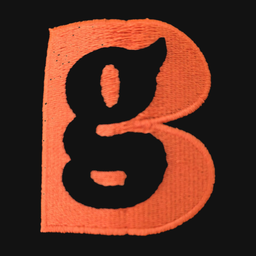
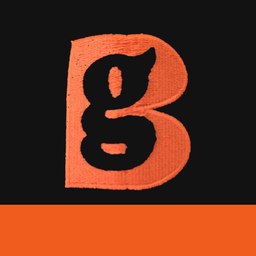
페이지 안 팀 마크도 모자 2색(본체+챙)으로
Claude-Session: https://claude.ai/code/session_01MiU2bxi9p7TMxbirvSDMuK

diff --git a/glo.html b/glo.html
@@ -156,7 +156,7 @@ body.self .olg{border-radius:8px}
 </main>
 <script>
 {
-const D={"ext": {"박민수(13)": ["29", "19", "12", "10", "3", "8", "2", "3", "2.67", "0", "0", "0", "0", "3", "0"], "김종원(7)": ["37", "28", "17", "11", "19", "9", "0", "3", "3.00", "0", "0", "0", "0", "5", "0"], "박일우(11)": ["32", "21", "9", "13", "10", "8", "3", "3", "2.67", "0", "0", "0", "0", "2", "0"], "박정일(5)": ["25", "14", "6", "5", "8", "5", "4", "2", "2.50", "0", "2", "0", "0", "0", "0"], "강용진(8)": ["22", "18", "7", "2", "11", "2", "1", "4", "0.50", "0", "1", "0", "0", "2", "0"], "박종원(0)": ["23", "16", "6", "5", "3", "6", "1", "9", "0.67", "0", "0", "0", "1", "1", "0"], "이장욱(10)": ["35", "27", "6", "7", "7", "7", "0", "8", "0.88", "0", "1", "0", "0", "1", "0"], "김태환(30)": ["31", "26", "5", "5", "4", "5", "0", "8", "0.63", "0", "0", "0", "0", "0", "0"], "이준환(26)": ["15", "11", "4", "4", "3", "4", "0", "4", "1.00", "0", "0", "0", "0", "1", "0"], "이상운(35)": ["4", "3", "1", "1", "0", "1", "0", "2", "0.50", "0", "0", "0", "0", "0", "0"], "조의제(44)": ["14", "7", "2", "5", "3", "5", "2", "2", "2.50", "0", "0", "0", "0", "0", "0"], "차현민(14)": ["11", "8", "2", "4", "2", "0", "3", "4", "0.00", "0", "0", "0", "0", "0", "0"], "김태수(77)": ["17", "13", "3", "6", "3", "4", "0", "3", "1.33", "0", "0", "0", "0", "1", "0"], "박정군(18)": ["13", "9", "2", "0", "1", "3", "1", "1", "3.00", "0", "0", "0", "0", "0", "0"], "신동철(12)": ["11", "10", "2", "3", "2", "1", "0", "7", "0.14", "0", "0", "1", "0", "0", "0"], "안승현(25)": ["3", "2", "0", "1", "0", "0", "1", "1", "0.00", "0", "0", "0", "0", "0", "0"], "정도은(6)": ["3", "2", "0", "0", "0", "1", "0", "1", "1.00", "0", "0", "0", "0", "0", "0"]}, "pext": {"김태수(77)": ["4", "4", "0", "0", "176", "158", "609", "49", "19", "0", "1", "0"], "정도은(6)": ["2", "1", "1", "0", "68", "47", "277", "14", "5", "0", "0", "0"], "박민수(13)": ["0", "0", "0", "0", "14", "11", "49", "4", "4", "0", "0", "0"], "강용진(8)": ["0", "0", "0", "0", "5", "5", "16", "2", "2", "0", "0", "0"], "차현민(14)": ["0", "0", "0", "0", "8", "6", "28", "6", "5", "1", "0", "0"]}, "logo": "gmark.png", "title": "글로베어스 선수 기록", "mode": "pre", "inn": "", "opp": "글로베어스", "self": true, "sub": "2026 시즌 타자·투수 기록과 타구 분포 · 게임원 공식 기록 기준", "basis": "데이터: 게임원 글로베어스 2026 시즌 전체 기록 12경기 · 2026.11.27 수집", "orderLabel": "게임원 기록 순", "raw": "박민수(13)|우투우타|10|0.632|0.759|0.842|1.601|4|0|0|15|AFLcIIFDFLLZALU\n김종원(7)|우투우타|12|0.607|0.703|1.000|1.703|5|0|2|9|oAZZ5RZrDzArofzZFrEfDL\n박일우(11)|우투우타|11|0.429|0.625|0.619|1.244|4|0|0|10|cLEDDfzDFFDXZLA\n박정일(5)|좌투좌타|9|0.429|0.600|0.571|1.171|2|0|0|3|occcIrrFczrzt\n강용진(8)|우투우타|7|0.389|0.455|0.611|1.066|2|1|0|2|YotFrIIIwLLLX\n박종원(0)|우투우타|9|0.375|0.565|0.438|1.003|1|0|0|5|ZrfZFF\n이장욱(10)|우투우타|12|0.222|0.371|0.259|0.630|1|0|0|3|FFEFrXDIErLXIcF\n김태환(30)|우투우타|12|0.192|0.323|0.192|0.515|0|0|0|5|rXortrFDDXrAsr\n이준환(26)|우투우타|5|0.364|0.533|0.636|1.169|1|1|0|1|tEDzZDL\n이상운(35)|우투우타|2|0.333|0.500|0.333|0.833|0|0|0|0|A\n조의제(44)||6|0.286|0.643|0.286|0.929|0|0|0|1|FrAE\n차현민(14)|우투우타|4|0.250|0.455|0.375|0.830|1|0|0|4|ZrL\n김태수(77)|우투우타|6|0.231|0.412|0.231|0.643|0|0|0|1|IEZFDFD\n박정군(18)|좌투좌타|6|0.222|0.462|0.222|0.684|0|0|0|1|XDrrtXr\n신동철(12)||8|0.200|0.273|0.200|0.473|0|0|0|2|FDZ\n안승현(25)|우투우타|1|0.000|0.333|0.000|0.333|0|0|0|0|\n정도은(6)|우투우타|1|0.000|0.333|0.000|0.333|0|0|0|0|c", "roster": [{"o": "", "pos": "중", "nm": "박민수(13)", "memo": "주 타순 1번(7회) · 최근 5경기 4회 출전"}, {"o": "", "pos": "유", "nm": "김종원(7)", "memo": "주 타순 3번(12회) · 최근 5경기 5회 출전"}, {"o": "", "pos": "포", "nm": "박일우(11)", "memo": "주 타순 2번(9회) · 최근 5경기 5회 출전"}, {"o": "", "pos": "一", "nm": "박정일(5)", "memo": "주 타순 4번(9회) · 최근 5경기 5회 출전"}, {"o": "", "pos": "좌", "nm": "강용진(8)", "memo": "주 타순 5번(5회) · 최근 5경기 5회 출전"}, {"o": "", "pos": "좌", "nm": "박종원(0)", "memo": "주 타순 5번(3회) · 최근 5경기 4회 출전"}, {"o": "", "pos": "二", "nm": "이장욱(10)", "memo": "주 타순 6번(6회) · 최근 5경기 5회 출전"}, {"o": "", "pos": "지", "nm": "김태환(30)", "memo": "주 타순 8번(5회) · 최근 5경기 5회 출전"}, {"o": "", "pos": "포", "nm": "이준환(26)", "memo": "주 타순 7번(2회) · 최근 5경기 1회 출전"}, {"o": "", "pos": "중", "nm": "조의제(44)", "memo": "주 타순 6번(3회) · 최근 5경기 1회 출전"}, {"o": "", "pos": "중", "nm": "차현민(14)", "memo": "주 타순 1번(3회) · 최근 5경기 2회 출전"}, {"o": "", "pos": "三", "nm": "김태수(77)", "memo": "주 타순 7번(2회) · 최근 5경기 3회 출전"}, {"o": "", "pos": "우", "nm": "박정군(18)", "memo": "주 타순 8번(3회) · 최근 5경기 3회 출전"}, {"o": "", "pos": "지", "nm": "신동철(12)", "memo": "주 타순 9번(3회) · 최근 5경기 1회 출전"}, {"o": "", "pos": "三", "nm": "정도은(6)", "memo": "주 타순 8번(1회) · 최근 5경기 1회 출전"}, {"o": "", "pos": "좌", "nm": "이상운(35)", "memo": "주 타순 9번(2회) · 최근 5경기 0회 출전"}, {"o": "", "pos": "중", "nm": "안승현(25)", "memo": "주 타순 1번(1회) · 최근 5경기 0회 출전"}], "pit": [{"nm": "김태수(77)", "role": "('26) 10경기", "ERA": "4.34", "G": 10, "IP": "30.2", "H": 64, "HR": 3, "BB": 13, "HBP": 4, "SO": 40, "WHIP": "2.51", "OAVG": "0.405", "K7": "9.13"}, {"nm": "정도은(6)", "role": "('26) 5경기", "ERA": "2.39", "G": 5, "IP": "14.2", "H": 12, "HR": 0, "BB": 15, "HBP": 3, "SO": 19, "WHIP": "1.84", "OAVG": "0.255", "K7": "9.07"}, {"nm": "박민수(13)", "role": "('26) 2경기", "ERA": "12.02", "G": 2, "IP": "2.1", "H": 4, "HR": 1, "BB": 3, "HBP": 0, "SO": 4, "WHIP": "3.00", "OAVG": "0.364", "K7": "12.00"}, {"nm": "강용진(8)", "role": "('26) 1경기", "ERA": "21.21", "G": 1, "IP": "0.2", "H": 4, "HR": 0, "BB": 0, "HBP": 0, "SO": 1, "WHIP": "6.06", "OAVG": "0.800", "K7": "10.50"}, {"nm": "차현민(14)", "role": "('26) 1경기", "ERA": "106.06", "G": 1, "IP": "0.1", "H": 5, "HR": 0, "BB": 2, "HBP": 0, "SO": 0, "WHIP": "21.21", "OAVG": "0.833", "K7": "0.00"}], "h2h": [], "links": [{"label": "팀 홈", "href": "https://www.gameone.kr/club/?club_idx=25486"}, {"label": "리그 홈", "href": "https://www.gameone.kr/league/?lig_idx=10894"}], "games": [{"href": "index.html", "label": "2027 경기 일정 전체"}, {"href": "swains.html", "md": "1/16", "wd": "14:00", "ts": "2027-01-16T14:00:00+09:00", "vn": "고", "label": "스웨인즈", "logo": "https://file.gameone.kr/symbol/club/20160106090534_083_thumb.png"}, {"href": "sbastards.html", "md": "1/23", "wd": "12:00", "ts": "2027-01-23T12:00:00+09:00", "vn": "고", "label": "S. Bastards", "logo": "https://file.gameone.kr/symbol/club/20261125131838_582_thumb.png"}, {"href": "dasl.html", "md": "2/20", "wd": "17:00", "ts": "2027-02-20T17:00:00+09:00", "vn": "고", "label": "다슬기스 YB", "logo": "https://file.gameone.kr/symbol/club/symbol8666.jpg"}, {"href": "swains.html", "md": "3/6", "wd": "17:00", "ts": "2027-03-06T17:00:00+09:00", "vn": "중", "label": "스웨인즈", "logo": "https://file.gameone.kr/symbol/club/20160106090534_083_thumb.png"}, {"href": "kartel.html", "md": "3/13", "wd": "17:00", "ts": "2027-03-13T17:00:00+09:00", "vn": "중", "label": "카르텔즈", "logo": "https://file.gameone.kr/symbol/club/20230216235745_171_thumb.png"}, {"href": "chicago2.html", "md": "4/3", "wd": "17:00", "ts": "2027-04-03T17:00:00+09:00", "vn": "고", "label": "시카고컵스2", "logo": ""}, {"href": "gyb.html", "md": "4/24", "wd": "07:00", "ts": "2027-04-24T07:00:00+09:00", "vn": "중", "label": "GYB", "logo": "https://file.gameone.kr/symbol/club/20251226142734_080_thumb.png"}, {"href": "gamb.html", "md": "5/1", "wd": "07:00", "ts": "2027-05-01T07:00:00+09:00", "vn": "고", "label": "놀음꾼들(Gamebler's)", "logo": "https://file.gameone.kr/symbol/club/20230618141746_509_thumb.gif"}, {"href": "chicago2.html", "md": "5/8", "wd": "13:00", "ts": "2027-05-08T13:00:00+09:00", "vn": "고", "label": "시카고컵스2", "logo": ""}, {"href": "mav.html", "md": "5/29", "wd": "13:00", "ts": "2027-05-29T13:00:00+09:00", "vn": "고", "label": "Mavericks", "logo": "https://file.gameone.kr/symbol/club/20230124223319_034_thumb.png"}, {"href": "bugs.html", "md": "6/5", "wd": "07:00", "ts": "2027-06-05T07:00:00+09:00", "vn": "중", "label": "벅스", "logo": "https://file.gameone.kr/symbol/club/20250501155303_022_thumb.png"}, {"href": "bok.html", "md": "6/12", "wd": "07:00", "ts": "2027-06-12T07:00:00+09:00", "vn": "중", "label": "한국은행 야구부", "logo": "https://file.gameone.kr/symbol/club/symbol17080.jpg"}, {"href": "glo.html", "label": "글로베어스 선수 기록"}, {"href": "sample.html", "label": "샘플 · 라인업 반영 화면"}, {"href": "live07.html", "label": "● 라이브 11.28 07:00 사구홀릭", "live": true, "lmd": "11/28", "lwd": "07:00", "lop": "사구홀릭 vs 놀음꾼들", "lus": "사구홀릭", "logo": "https://file.gameone.kr/symbol/club/symbol9444.jpg"}, {"href": "live13.html", "label": "● 라이브 11.28 13:00 RED ONE", "live": true, "lmd": "11/28", "lwd": "13:00", "lop": "RED ONE vs 놀음꾼들", "lus": "RED ONE", "logo": "https://file.gameone.kr/symbol/club/20231210211054_417_thumb.jpg"}, {"href": "live15.html", "label": "● 라이브 11.28 15:00 사구홀릭", "live": true, "lmd": "11/28", "lwd": "15:00", "lop": "사구홀릭 vs 놀음꾼들", "lus": "사구홀릭", "logo": "https://file.gameone.kr/symbol/club/symbol9444.jpg"}]};
+const D={"ext": {"박민수(13)": ["29", "19", "12", "10", "3", "8", "2", "3", "2.67", "0", "0", "0", "0", "3", "0"], "김종원(7)": ["37", "28", "17", "11", "19", "9", "0", "3", "3.00", "0", "0", "0", "0", "5", "0"], "박일우(11)": ["32", "21", "9", "13", "10", "8", "3", "3", "2.67", "0", "0", "0", "0", "2", "0"], "박정일(5)": ["25", "14", "6", "5", "8", "5", "4", "2", "2.50", "0", "2", "0", "0", "0", "0"], "강용진(8)": ["22", "18", "7", "2", "11", "2", "1", "4", "0.50", "0", "1", "0", "0", "2", "0"], "박종원(0)": ["23", "16", "6", "5", "3", "6", "1", "9", "0.67", "0", "0", "0", "1", "1", "0"], "이장욱(10)": ["35", "27", "6", "7", "7", "7", "0", "8", "0.88", "0", "1", "0", "0", "1", "0"], "김태환(30)": ["31", "26", "5", "5", "4", "5", "0", "8", "0.63", "0", "0", "0", "0", "0", "0"], "이준환(26)": ["15", "11", "4", "4", "3", "4", "0", "4", "1.00", "0", "0", "0", "0", "1", "0"], "이상운(35)": ["4", "3", "1", "1", "0", "1", "0", "2", "0.50", "0", "0", "0", "0", "0", "0"], "조의제(44)": ["14", "7", "2", "5", "3", "5", "2", "2", "2.50", "0", "0", "0", "0", "0", "0"], "차현민(14)": ["11", "8", "2", "4", "2", "0", "3", "4", "0.00", "0", "0", "0", "0", "0", "0"], "김태수(77)": ["17", "13", "3", "6", "3", "4", "0", "3", "1.33", "0", "0", "0", "0", "1", "0"], "박정군(18)": ["13", "9", "2", "0", "1", "3", "1", "1", "3.00", "0", "0", "0", "0", "0", "0"], "신동철(12)": ["11", "10", "2", "3", "2", "1", "0", "7", "0.14", "0", "0", "1", "0", "0", "0"], "안승현(25)": ["3", "2", "0", "1", "0", "0", "1", "1", "0.00", "0", "0", "0", "0", "0", "0"], "정도은(6)": ["3", "2", "0", "0", "0", "1", "0", "1", "1.00", "0", "0", "0", "0", "0", "0"]}, "pext": {"김태수(77)": ["4", "4", "0", "0", "176", "158", "609", "49", "19", "0", "1", "0"], "정도은(6)": ["2", "1", "1", "0", "68", "47", "277", "14", "5", "0", "0", "0"], "박민수(13)": ["0", "0", "0", "0", "14", "11", "49", "4", "4", "0", "0", "0"], "강용진(8)": ["0", "0", "0", "0", "5", "5", "16", "2", "2", "0", "0", "0"], "차현민(14)": ["0", "0", "0", "0", "8", "6", "28", "6", "5", "1", "0", "0"]}, "logo": "gmark.png?v=2", "title": "글로베어스 선수 기록", "mode": "pre", "inn": "", "opp": "글로베어스", "self": true, "sub": "2026 시즌 타자·투수 기록과 타구 분포 · 게임원 공식 기록 기준", "basis": "데이터: 게임원 글로베어스 2026 시즌 전체 기록 12경기 · 2026.11.27 수집", "orderLabel": "게임원 기록 순", "raw": "박민수(13)|우투우타|10|0.632|0.759|0.842|1.601|4|0|0|15|AFLcIIFDFLLZALU\n김종원(7)|우투우타|12|0.607|0.703|1.000|1.703|5|0|2|9|oAZZ5RZrDzArofzZFrEfDL\n박일우(11)|우투우타|11|0.429|0.625|0.619|1.244|4|0|0|10|cLEDDfzDFFDXZLA\n박정일(5)|좌투좌타|9|0.429|0.600|0.571|1.171|2|0|0|3|occcIrrFczrzt\n강용진(8)|우투우타|7|0.389|0.455|0.611|1.066|2|1|0|2|YotFrIIIwLLLX\n박종원(0)|우투우타|9|0.375|0.565|0.438|1.003|1|0|0|5|ZrfZFF\n이장욱(10)|우투우타|12|0.222|0.371|0.259|0.630|1|0|0|3|FFEFrXDIErLXIcF\n김태환(30)|우투우타|12|0.192|0.323|0.192|0.515|0|0|0|5|rXortrFDDXrAsr\n이준환(26)|우투우타|5|0.364|0.533|0.636|1.169|1|1|0|1|tEDzZDL\n이상운(35)|우투우타|2|0.333|0.500|0.333|0.833|0|0|0|0|A\n조의제(44)||6|0.286|0.643|0.286|0.929|0|0|0|1|FrAE\n차현민(14)|우투우타|4|0.250|0.455|0.375|0.830|1|0|0|4|ZrL\n김태수(77)|우투우타|6|0.231|0.412|0.231|0.643|0|0|0|1|IEZFDFD\n박정군(18)|좌투좌타|6|0.222|0.462|0.222|0.684|0|0|0|1|XDrrtXr\n신동철(12)||8|0.200|0.273|0.200|0.473|0|0|0|2|FDZ\n안승현(25)|우투우타|1|0.000|0.333|0.000|0.333|0|0|0|0|\n정도은(6)|우투우타|1|0.000|0.333|0.000|0.333|0|0|0|0|c", "roster": [{"o": "", "pos": "중", "nm": "박민수(13)", "memo": "주 타순 1번(7회) · 최근 5경기 4회 출전"}, {"o": "", "pos": "유", "nm": "김종원(7)", "memo": "주 타순 3번(12회) · 최근 5경기 5회 출전"}, {"o": "", "pos": "포", "nm": "박일우(11)", "memo": "주 타순 2번(9회) · 최근 5경기 5회 출전"}, {"o": "", "pos": "一", "nm": "박정일(5)", "memo": "주 타순 4번(9회) · 최근 5경기 5회 출전"}, {"o": "", "pos": "좌", "nm": "강용진(8)", "memo": "주 타순 5번(5회) · 최근 5경기 5회 출전"}, {"o": "", "pos": "좌", "nm": "박종원(0)", "memo": "주 타순 5번(3회) · 최근 5경기 4회 출전"}, {"o": "", "pos": "二", "nm": "이장욱(10)", "memo": "주 타순 6번(6회) · 최근 5경기 5회 출전"}, {"o": "", "pos": "지", "nm": "김태환(30)", "memo": "주 타순 8번(5회) · 최근 5경기 5회 출전"}, {"o": "", "pos": "포", "nm": "이준환(26)", "memo": "주 타순 7번(2회) · 최근 5경기 1회 출전"}, {"o": "", "pos": "중", "nm": "조의제(44)", "memo": "주 타순 6번(3회) · 최근 5경기 1회 출전"}, {"o": "", "pos": "중", "nm": "차현민(14)", "memo": "주 타순 1번(3회) · 최근 5경기 2회 출전"}, {"o": "", "pos": "三", "nm": "김태수(77)", "memo": "주 타순 7번(2회) · 최근 5경기 3회 출전"}, {"o": "", "pos": "우", "nm": "박정군(18)", "memo": "주 타순 8번(3회) · 최근 5경기 3회 출전"}, {"o": "", "pos": "지", "nm": "신동철(12)", "memo": "주 타순 9번(3회) · 최근 5경기 1회 출전"}, {"o": "", "pos": "三", "nm": "정도은(6)", "memo": "주 타순 8번(1회) · 최근 5경기 1회 출전"}, {"o": "", "pos": "좌", "nm": "이상운(35)", "memo": "주 타순 9번(2회) · 최근 5경기 0회 출전"}, {"o": "", "pos": "중", "nm": "안승현(25)", "memo": "주 타순 1번(1회) · 최근 5경기 0회 출전"}], "pit": [{"nm": "김태수(77)", "role": "('26) 10경기", "ERA": "4.34", "G": 10, "IP": "30.2", "H": 64, "HR": 3, "BB": 13, "HBP": 4, "SO": 40, "WHIP": "2.51", "OAVG": "0.405", "K7": "9.13"}, {"nm": "정도은(6)", "role": "('26) 5경기", "ERA": "2.39", "G": 5, "IP": "14.2", "H": 12, "HR": 0, "BB": 15, "HBP": 3, "SO": 19, "WHIP": "1.84", "OAVG": "0.255", "K7": "9.07"}, {"nm": "박민수(13)", "role": "('26) 2경기", "ERA": "12.02", "G": 2, "IP": "2.1", "H": 4, "HR": 1, "BB": 3, "HBP": 0, "SO": 4, "WHIP": "3.00", "OAVG": "0.364", "K7": "12.00"}, {"nm": "강용진(8)", "role": "('26) 1경기", "ERA": "21.21", "G": 1, "IP": "0.2", "H": 4, "HR": 0, "BB": 0, "HBP": 0, "SO": 1, "WHIP": "6.06", "OAVG": "0.800", "K7": "10.50"}, {"nm": "차현민(14)", "role": "('26) 1경기", "ERA": "106.06", "G": 1, "IP": "0.1", "H": 5, "HR": 0, "BB": 2, "HBP": 0, "SO": 0, "WHIP": "21.21", "OAVG": "0.833", "K7": "0.00"}], "h2h": [], "links": [{"label": "팀 홈", "href": "https://www.gameone.kr/club/?club_idx=25486"}, {"label": "리그 홈", "href": "https://www.gameone.kr/league/?lig_idx=10894"}], "games": [{"href": "index.html", "label": "2027 경기 일정 전체"}, {"href": "swains.html", "md": "1/16", "wd": "14:00", "ts": "2027-01-16T14:00:00+09:00", "vn": "고", "label": "스웨인즈", "logo": "https://file.gameone.kr/symbol/club/20160106090534_083_thumb.png"}, {"href": "sbastards.html", "md": "1/23", "wd": "12:00", "ts": "2027-01-23T12:00:00+09:00", "vn": "고", "label": "S. Bastards", "logo": "https://file.gameone.kr/symbol/club/20261125131838_582_thumb.png"}, {"href": "dasl.html", "md": "2/20", "wd": "17:00", "ts": "2027-02-20T17:00:00+09:00", "vn": "고", "label": "다슬기스 YB", "logo": "https://file.gameone.kr/symbol/club/symbol8666.jpg"}, {"href": "swains.html", "md": "3/6", "wd": "17:00", "ts": "2027-03-06T17:00:00+09:00", "vn": "중", "label": "스웨인즈", "logo": "https://file.gameone.kr/symbol/club/20160106090534_083_thumb.png"}, {"href": "kartel.html", "md": "3/13", "wd": "17:00", "ts": "2027-03-13T17:00:00+09:00", "vn": "중", "label": "카르텔즈", "logo": "https://file.gameone.kr/symbol/club/20230216235745_171_thumb.png"}, {"href": "chicago2.html", "md": "4/3", "wd": "17:00", "ts": "2027-04-03T17:00:00+09:00", "vn": "고", "label": "시카고컵스2", "logo": ""}, {"href": "gyb.html", "md": "4/24", "wd": "07:00", "ts": "2027-04-24T07:00:00+09:00", "vn": "중", "label": "GYB", "logo": "https://file.gameone.kr/symbol/club/20251226142734_080_thumb.png"}, {"href": "gamb.html", "md": "5/1", "wd": "07:00", "ts": "2027-05-01T07:00:00+09:00", "vn": "고", "label": "놀음꾼들(Gamebler's)", "logo": "https://file.gameone.kr/symbol/club/20230618141746_509_thumb.gif"}, {"href": "chicago2.html", "md": "5/8", "wd": "13:00", "ts": "2027-05-08T13:00:00+09:00", "vn": "고", "label": "시카고컵스2", "logo": ""}, {"href": "mav.html", "md": "5/29", "wd": "13:00", "ts": "2027-05-29T13:00:00+09:00", "vn": "고", "label": "Mavericks", "logo": "https://file.gameone.kr/symbol/club/20230124223319_034_thumb.png"}, {"href": "bugs.html", "md": "6/5", "wd": "07:00", "ts": "2027-06-05T07:00:00+09:00", "vn": "중", "label": "벅스", "logo": "https://file.gameone.kr/symbol/club/20250501155303_022_thumb.png"}, {"href": "bok.html", "md": "6/12", "wd": "07:00", "ts": "2027-06-12T07:00:00+09:00", "vn": "중", "label": "한국은행 야구부", "logo": "https://file.gameone.kr/symbol/club/symbol17080.jpg"}, {"href": "glo.html", "label": "글로베어스 선수 기록"}, {"href": "sample.html", "label": "샘플 · 라인업 반영 화면"}, {"href": "live07.html", "label": "● 라이브 11.28 07:00 사구홀릭", "live": true, "lmd": "11/28", "lwd": "07:00", "lop": "사구홀릭 vs 놀음꾼들", "lus": "사구홀릭", "logo": "https://file.gameone.kr/symbol/club/symbol9444.jpg"}, {"href": "live13.html", "label": "● 라이브 11.28 13:00 RED ONE", "live": true, "lmd": "11/28", "lwd": "13:00", "lop": "RED ONE vs 놀음꾼들", "lus": "RED ONE", "logo": "https://file.gameone.kr/symbol/club/20231210211054_417_thumb.jpg"}, {"href": "live15.html", "label": "● 라이브 11.28 15:00 사구홀릭", "live": true, "lmd": "11/28", "lwd": "15:00", "lop": "사구홀릭 vs 놀음꾼들", "lus": "사구홀릭", "logo": "https://file.gameone.kr/symbol/club/symbol9444.jpg"}]};
 const A='ABCDEFGHIJKLMNOPQRSTUVWXYZabcdefghijklmnopqrstuvwxyz0123456789',TY=['s','x','h','o','e'];
 const P={};
 D.raw.split('\n').forEach(l=>{const f=l.split('|');P[f[0]]={nm:f[0],bt:f[1],G:+f[2],AVG:f[3],OBP:f[4],SLG:f[5],OPS:f[6],D:+f[7],T:+f[8],HR:+f[9],SB:+f[10],extra:f[12]||'',balls:[...(f[11]||'')].map(ch=>{const i=A.indexOf(ch);return{dir:Math.floor(i/20),depth:Math.floor((i%20)/5),t:TY[i%5]}})}});

diff --git a/index.html b/index.html
@@ -29,7 +29,7 @@ h2.sec{font-size:16px;margin:6px 2px 8px}.ib{display:inline-grid;place-items:cen
 <header><img class="hlogo" src="logo.png" alt="글로베어스" width="52" height="57"><div><h1>글로베어스 2027 경기 일정 · 상대 전력분석</h1><p>서울 성남고리그 토요리그(C조)</p></div><div class="hl"><a href="https://www.gameone.kr/club/?club_idx=25486" target="_blank" rel="noopener">우리 팀</a><a href="https://www.gameone.kr/club/info/schedule/table?club_idx=25486&season=2027" target="_blank" rel="noopener">2027 일정</a><a href="https://www.gameone.kr/league/?lig_idx=10894" target="_blank" rel="noopener">리그 홈</a></div><div style="display:flex;gap:6px"><button class="ib" id="thm" aria-label="화면 밝기 전환">☀</button><button class="ib" id="fsb" aria-label="전체화면 전환">⤢</button></div></header>
 <main>
 
-<a class="team" href="glo.html"><img class="gcap" src="gmark.png" alt="글로베어스 g" width="46" height="46"><div style="white-space:nowrap;overflow:hidden;text-overflow:ellipsis;min-width:0"><b>글로베어스 선수 기록</b><span style="margin-left:18px;padding-left:14px;border-left:1px solid light-dark(#e3b48a,#7a5230)">&#39;26 시즌 기준 · 투수 5명 · 타자 17명</span></div><span class="go">열기 ›</span></a>
+<a class="team" href="glo.html"><img class="gcap" src="gmark.png?v=2" alt="글로베어스 g" width="46" height="46"><div style="white-space:nowrap;overflow:hidden;text-overflow:ellipsis;min-width:0"><b>글로베어스 선수 기록</b><span style="margin-left:18px;padding-left:14px;border-left:1px solid light-dark(#e3b48a,#7a5230)">&#39;26 시즌 기준 · 투수 5명 · 타자 17명</span></div><span class="go">열기 ›</span></a>
 <a class="livec" href="live07.html"><span class="tst">Test</span><span class="lvb"><i></i>LIVE</span><span class="lt2"><b>11.28(토) 07:00</b> 사구홀릭 vs 놀음꾼들<small style="font-size:11.5px;margin-left:5px;opacity:.85">(우리팀으로 가정)</small></span><span class="lgo">보기 ›</span></a><a class="livec" href="live13.html"><span class="tst">Test</span><span class="lvb"><i></i>LIVE</span><span class="lt2"><b>11.28(토) 13:00</b> RED ONE vs 놀음꾼들<small style="font-size:11.5px;margin-left:5px;opacity:.85">(우리팀으로 가정)</small></span><span class="lgo">보기 ›</span></a><a class="livec" href="live15.html"><span class="tst">Test</span><span class="lvb"><i></i>LIVE</span><span class="lt2"><b>11.28(토) 15:00</b> 사구홀릭 vs 놀음꾼들<small style="font-size:11.5px;margin-left:5px;opacity:.85">(우리팀으로 가정)</small></span><span class="lgo">보기 ›</span></a>
 <h2 class="sec">다가올 경기 <span style="font-weight:400;font-size:12.5px;color:var(--sub)">게임원 2027 일정 기준(2026.11.27 수집) · 리그 중 변경될 수 있음</span></h2>
 <div class="wrap"><table><thead><tr><th>일시</th><th>구장</th><th>게임 <span style="font-weight:400;font-size:12.5px">(선공 vs 후공)</span></th><th>전력분석</th></tr></thead><tbody>
